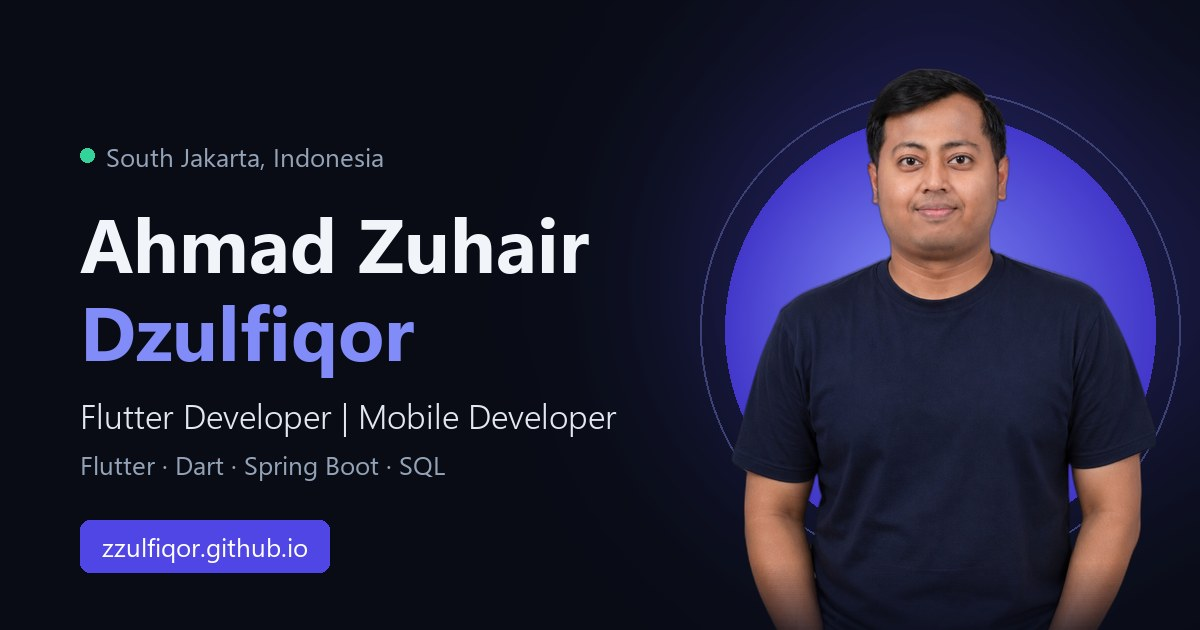
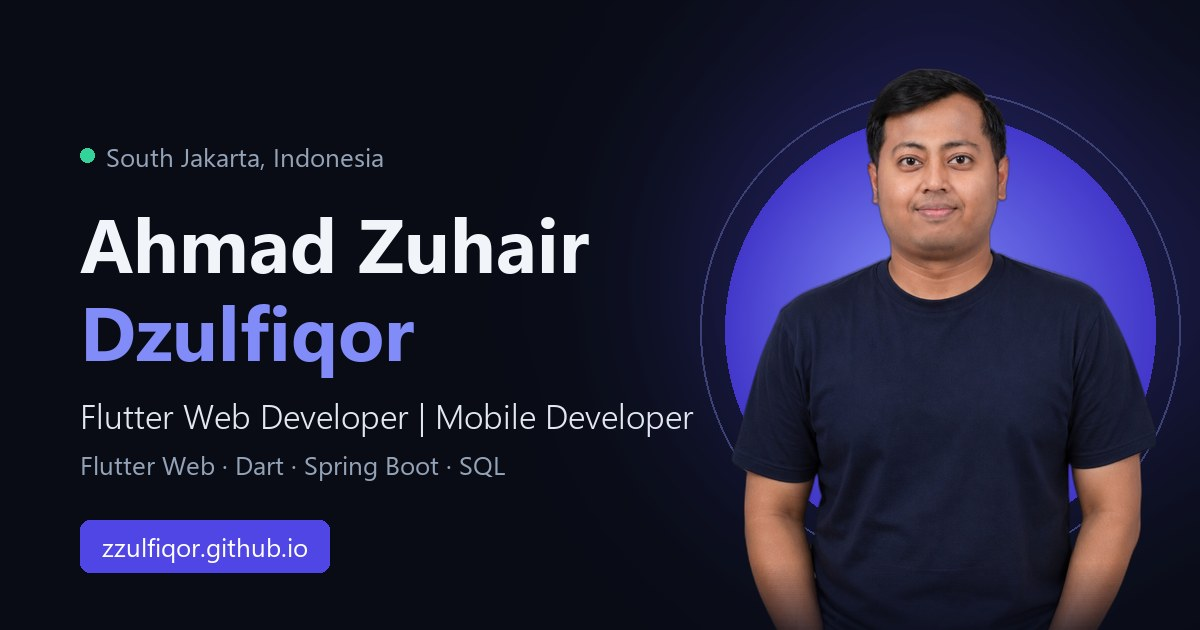
feat(seo): target "Flutter Web Developer" as primary keyword
Title, meta/OG/Twitter descriptions, JSON-LD jobTitle and knowsAbout,
hero role line, CV role, profile summary, portrait alt, and the share
image now lead with "Flutter Web Developer" plus Jakarta location.

Changed region(s): [[0.1542, 0.6333, 0.5858, 0.6937], [0.1233, 0.7238, 0.4317, 0.754]]

diff --git a/index.html b/index.html
@@ -3,10 +3,10 @@
   <head>
     <meta charset="UTF-8" />
     <meta name="viewport" content="width=device-width, initial-scale=1.0" />
-    <title>Ahmad Zuhair Dzulfiqor | Flutter &amp; Mobile Developer</title>
+    <title>Ahmad Zuhair Dzulfiqor | Flutter Web Developer in Jakarta</title>
     <meta
       name="description"
-      content="Ahmad Zuhair Dzulfiqor, Flutter & Mobile Developer in South Jakarta. Builds Flutter mobile and web apps, Spring Boot services, and SQL reporting systems."
+      content="Flutter Web Developer in South Jakarta, Indonesia. I build Flutter web and mobile apps, reusable Flutter Web frameworks, Spring Boot APIs, and SQL reporting."
     />
     <meta name="author" content="Ahmad Zuhair Dzulfiqor" />
     <meta name="theme-color" content="#090c15" />
@@ -17,23 +17,23 @@
     <meta property="og:type" content="profile" />
     <meta property="og:site_name" content="Ahmad Zuhair Dzulfiqor" />
     <meta property="og:url" content="https://zzulfiqor.github.io/" />
-    <meta property="og:title" content="Ahmad Zuhair Dzulfiqor | Flutter & Mobile Developer" />
+    <meta property="og:title" content="Ahmad Zuhair Dzulfiqor | Flutter Web Developer in Jakarta" />
     <meta
       property="og:description"
-      content="Flutter & Mobile Developer in South Jakarta. Flutter mobile and web apps, Spring Boot services, and SQL reporting systems."
+      content="Flutter Web Developer in South Jakarta. Flutter web and mobile apps, reusable Flutter Web frameworks, Spring Boot APIs, and SQL reporting systems."
     />
     <meta property="og:image" content="https://zzulfiqor.github.io/assets/og-image.jpg" />
     <meta property="og:image:width" content="1200" />
     <meta property="og:image:height" content="630" />
-    <meta property="og:image:alt" content="Ahmad Zuhair Dzulfiqor, Flutter Developer and Mobile Developer" />
+    <meta property="og:image:alt" content="Ahmad Zuhair Dzulfiqor, Flutter Web Developer and Mobile Developer" />
     <meta property="og:locale" content="en_US" />
     <meta property="profile:first_name" content="Ahmad Zuhair" />
     <meta property="profile:last_name" content="Dzulfiqor" />
     <meta name="twitter:card" content="summary_large_image" />
-    <meta name="twitter:title" content="Ahmad Zuhair Dzulfiqor | Flutter & Mobile Developer" />
+    <meta name="twitter:title" content="Ahmad Zuhair Dzulfiqor | Flutter Web Developer in Jakarta" />
     <meta
       name="twitter:description"
-      content="Flutter & Mobile Developer in South Jakarta. Flutter mobile and web apps, Spring Boot services, and SQL reporting systems."
+      content="Flutter Web Developer in South Jakarta. Flutter web and mobile apps, reusable Flutter Web frameworks, Spring Boot APIs, and SQL reporting systems."
     />
     <meta name="twitter:image" content="https://zzulfiqor.github.io/assets/og-image.jpg" />
 
@@ -47,7 +47,7 @@
           "@type": "Person",
           "@id": "https://zzulfiqor.github.io/#person",
           "name": "Ahmad Zuhair Dzulfiqor",
-          "jobTitle": "Flutter Developer",
+          "jobTitle": "Flutter Web Developer",
           "url": "https://zzulfiqor.github.io/",
           "image": "https://zzulfiqor.github.io/assets/ahmad-portrait-cutout.png",
           "email": "mailto:zzulfiqor@gmail.com",
@@ -65,6 +65,8 @@
             "Flutter",
             "Dart",
             "Flutter Web",
+            "Flutter Web Development",
+            "Cross-platform App Development",
             "Mobile Development",
             "Spring Boot",
             "SQL Server",
@@ -278,7 +280,7 @@
               <span class="word"><span class="text-accent">Dzulfiqor</span></span>
             </h1>
 
-            <p class="hero-role">Flutter Developer | Mobile Developer</p>
+            <p class="hero-role">Flutter Web Developer | Mobile Developer</p>
 
             <p class="hero-summary">
               Building mobile and web applications with Flutter, Dart, Spring
@@ -408,7 +410,7 @@
               <div class="portrait-frame">
                 <img
                   src="assets/ahmad-portrait-cutout.webp"
-                  alt="Portrait of Ahmad Zuhair Dzulfiqor, Flutter and Mobile Developer"
+                  alt="Portrait of Ahmad Zuhair Dzulfiqor, Flutter Web Developer based in Jakarta"
                   class="portrait-img"
                   fetchpriority="high"
                   width="670"

diff --git a/js/data.js b/js/data.js
@@ -3,7 +3,7 @@ export const PROFILE = {
   firstName: "Ahmad Zuhair",
   lastName: "Dzulfiqor",
   brandName: "Ahmad Zuhair",
-  role: "Flutter Developer | Mobile Developer",
+  role: "Flutter Web Developer | Mobile Developer",
   location: "South Jakarta, Indonesia",
   phoneDisplay: "(+62) 812-1581-9957",
   phoneHref: "tel:+6281215819957",
@@ -12,7 +12,7 @@ export const PROFILE = {
   githubUrl: "https://github.com/zzulfiqor",
   linkedinDisplay: "linkedin.com/in/zuhairdzulfiqor",
   summary:
-    "Flutter Developer with experience building mobile and web applications using Flutter, Dart, and supporting backend/database technologies. Experienced in developing Flutter Web reporting applications, creating reusable Flutter Web frameworks, building Spring Boot backend services, and maintaining stored procedures/functions for database-driven reporting workflows. Strong foundation in problem solving, mobile development, teamwork, and human-computer interaction.",
+    "Flutter Web Developer with experience building mobile and web applications using Flutter, Dart, and supporting backend/database technologies. Experienced in developing Flutter Web reporting applications, creating reusable Flutter Web frameworks, building Spring Boot backend services, and maintaining stored procedures/functions for database-driven reporting workflows. Strong foundation in problem solving, mobile development, teamwork, and human-computer interaction.",
 };
 
 export const HIGHLIGHTS = [
